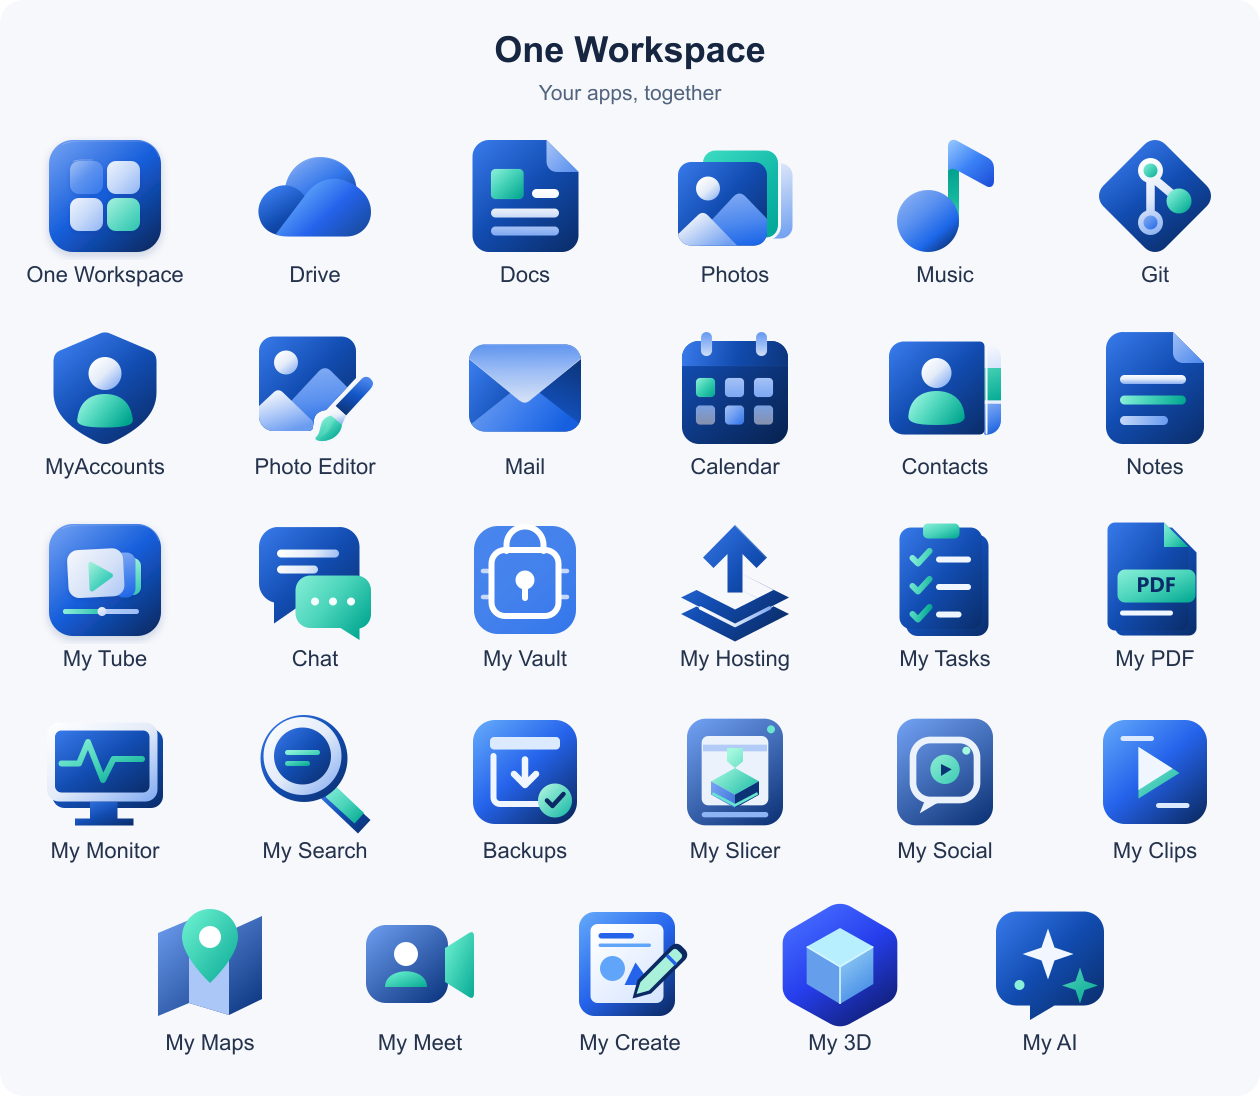
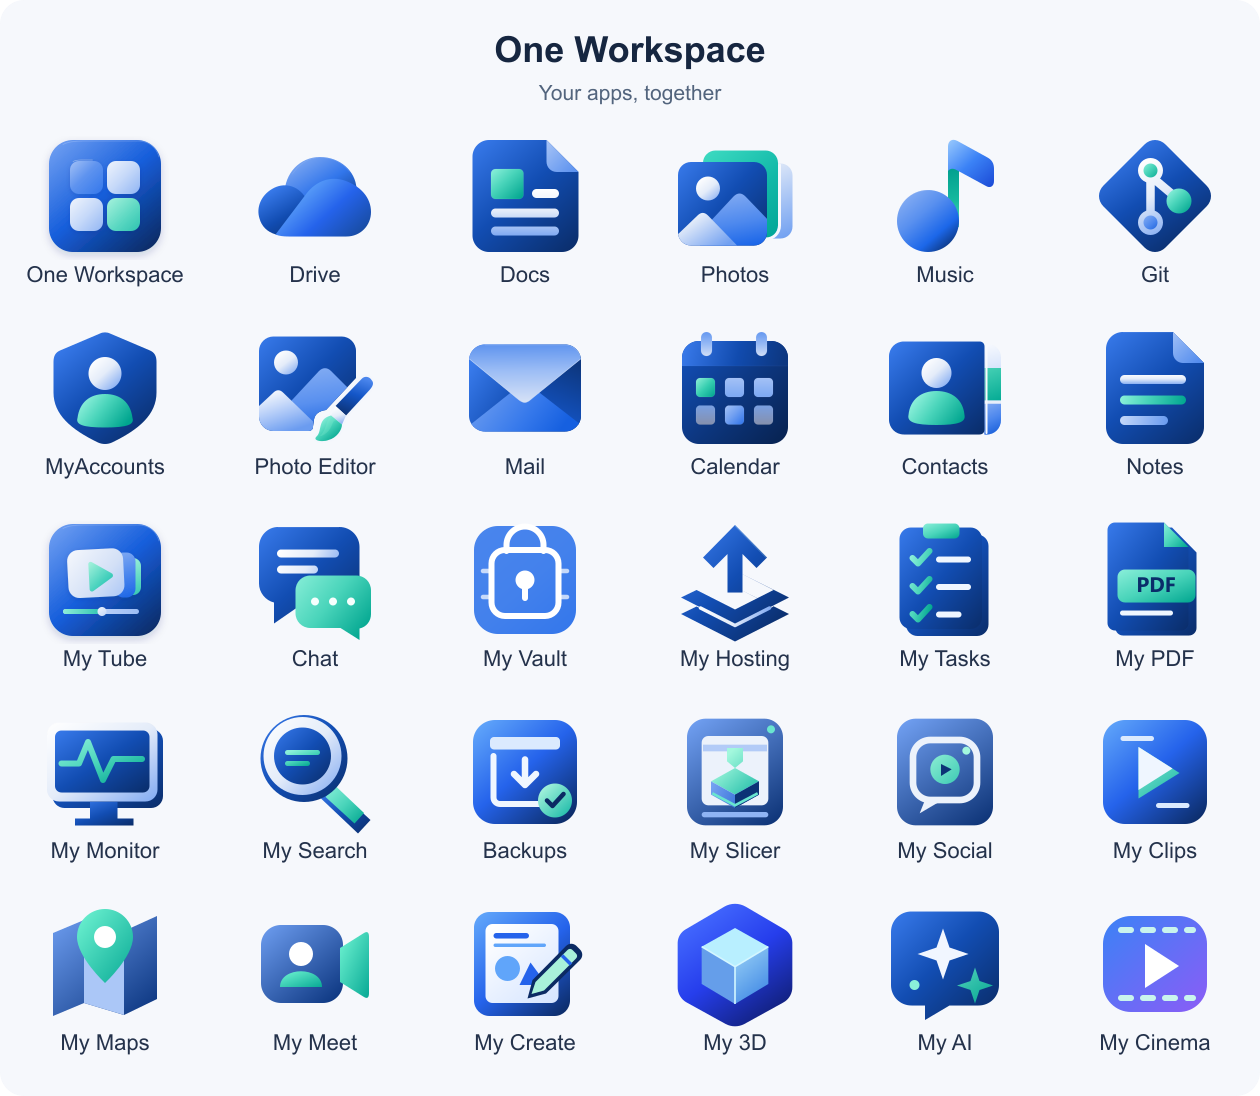
Integrate My Cinema with native sign-in, branding and verified updates [skip ci]

Changed region(s): [[0.031, 0.8066, 0.9595, 0.9617]]

diff --git a/docs/branding/index.html b/docs/branding/index.html
@@ -2,6 +2,6 @@
 <html lang="en"><head><meta charset="utf-8"><meta name="viewport" content="width=device-width,initial-scale=1"><title>One Workspace logos</title><link rel="icon" href="../../internal/branding/icons/one_workspace.svg"><style>
 *{box-sizing:border-box}body{margin:0;background:#f4f6fb;color:#17233b;font:16px system-ui,sans-serif}main{max-width:1180px;margin:40px auto;padding:0 26px}header{display:flex;gap:20px;align-items:center;margin-bottom:32px}header img{width:72px;height:72px}h1{font-size:32px;margin:0 0 8px;letter-spacing:-1px}p{margin:0;color:#65718a}.grid{display:grid;grid-template-columns:repeat(4,1fr);gap:20px}article{background:white;border:1px solid #dfe5ef;border-radius:18px;overflow:hidden}h2{font-size:16px;margin:20px}.samples{display:flex;align-items:center;justify-content:center;gap:18px;height:136px;background:repeating-conic-gradient(#edf0f6 0% 25%,white 0% 50%) 50%/20px 20px}.samples img{width:80px;height:80px}.dark{background:#11182a}.small{display:flex;align-items:center;gap:14px;padding:20px;color:#7b879b;font-size:12px}.small img{flex:none}@media(max-width:850px){.grid{grid-template-columns:repeat(2,1fr)}}@media(max-width:450px){.grid{grid-template-columns:1fr}}
 </style></head><body><main><header><img src="../../internal/branding/icons/one_workspace.svg" alt=""><div><h1>One Workspace</h1><p>The complete app collection · shared blue artwork</p></div></header><div class="grid" id="logos"></div></main><script>
-const apps=[["one_workspace","One Workspace"],["my_drive","Drive"],["my_office","Docs"],["my_photos","Photos"],["my_music","Music"],["my_git","Git"],["my_accounts","MyAccounts"],["photo_editor","Photo Editor"],["my_mail","Mail"],["my_calendar","Calendar"],["my_contacts","Contacts"],["my_notes","Notes"],["my_tube","My Tube"],["my_chat","Chat"],["my_vault","My Vault"],["my_hosting","My Hosting"],["my_tasks","My Tasks"],["my_pdf","My PDF"],["my_monitor","My Monitor"],["my_search","My Search"],["backups","Backups"],["my_slicer","My Slicer"],["my_social","My Social"],["my_clips","My Clips"],["my_maps","My Maps"],["my_meet","My Meet"],["my_create","My Create"],["my_3d","My 3D"],["my_ai","My AI"]];
+const apps=[["one_workspace","One Workspace"],["my_drive","Drive"],["my_office","Docs"],["my_photos","Photos"],["my_music","Music"],["my_git","Git"],["my_accounts","MyAccounts"],["photo_editor","Photo Editor"],["my_mail","Mail"],["my_calendar","Calendar"],["my_contacts","Contacts"],["my_notes","Notes"],["my_tube","My Tube"],["my_chat","Chat"],["my_vault","My Vault"],["my_hosting","My Hosting"],["my_tasks","My Tasks"],["my_pdf","My PDF"],["my_monitor","My Monitor"],["my_search","My Search"],["backups","Backups"],["my_slicer","My Slicer"],["my_social","My Social"],["my_clips","My Clips"],["my_maps","My Maps"],["my_meet","My Meet"],["my_create","My Create"],["my_3d","My 3D"],["my_ai","My AI"],["my_cinema","My Cinema"]];
 document.querySelector('#logos').innerHTML=apps.map(([file,name])=>`<article><h2>${name}</h2><div class="samples"><img src="../../internal/branding/icons/${file}.svg" alt="${name}"></div><div class="samples dark"><img src="../../internal/branding/icons/${file}.svg" alt=""></div><div class="small"><img src="${file}-32.png" width="16" height="16" alt=""><img src="${file}-32.png" width="24" height="24" alt=""><img src="${file}-32.png" width="32" height="32" alt=""><span>16 · 24 · 32</span></div></article>`).join('');
 </script></body></html>

diff --git a/internal/branding/branding.go b/internal/branding/branding.go
@@ -75,7 +75,7 @@ func Icon(app string) string {
 		"backups": "backups", "calendar": "my_calendar", "contacts": "my_contacts", "drive": "my_drive", "docs": "my_office", "office": "my_office",
 		"photos": "my_photos", "gitea": "my_git", "git": "my_git",
 		"music": "my_music", "studio": "photo_editor", "photo-editor": "photo_editor",
-		"myai": "my_ai", "my3d": "my_3d", "create": "my_create", "maps": "my_maps", "meet": "my_meet", "clips": "my_clips", "social": "my_social", "slicer": "my_slicer", "tasks": "my_tasks", "pdf": "my_pdf", "monitor": "my_monitor", "search": "my_search", "hosting": "my_hosting", "chat": "my_chat", "mail": "my_mail", "accounts": "my_accounts", "myaccounts": "my_accounts", "notes": "my_notes", "my-tube": "my_tube", "vault": "my_vault",
+		"cinema": "my_cinema", "myai": "my_ai", "my3d": "my_3d", "create": "my_create", "maps": "my_maps", "meet": "my_meet", "clips": "my_clips", "social": "my_social", "slicer": "my_slicer", "tasks": "my_tasks", "pdf": "my_pdf", "monitor": "my_monitor", "search": "my_search", "hosting": "my_hosting", "chat": "my_chat", "mail": "my_mail", "accounts": "my_accounts", "myaccounts": "my_accounts", "notes": "my_notes", "my-tube": "my_tube", "vault": "my_vault",
 	}[app]
 	if name == "" {
 		name = "one_workspace"

diff --git a/internal/suite/cinema_test.go b/internal/suite/cinema_test.go
@@ -1,0 +1,23 @@
+package suite
+
+import (
+	"github.com/oneworkspacestudio/one-workspace/internal/catalog"
+	"testing"
+)
+
+func TestCinemaNativeContract(t *testing.T) {
+	c := NewConfig(Request{Port: 29000, Mode: "local", Programs: "C:/Synthetic/Apps", Data: "C:/Synthetic/Private", Files: "C:/Synthetic/Files"}, catalog.Catalog{Apps: []catalog.App{{ID: "cinema", Kind: "process", Port: 9020, Route: "/cinema"}}})
+	a, ok := c.Catalog.Find("cinema")
+	if !ok || a.Port != 29030 || !foundationApp(a.ID) || appWorkingDir(c, a.ID) == c.Data {
+		t.Fatal("Cinema contract missing")
+	}
+	found := false
+	for _, s := range suiteSignIns {
+		if s.id == "cinema" {
+			found = s.probe == "/api/me" && s.route == "/cinema" && s.cookies[0] == "cinema_session"
+		}
+	}
+	if !found {
+		t.Fatal("native sign-in missing")
+	}
+}

diff --git a/internal/distribution/updates.go b/internal/distribution/updates.go
@@ -90,6 +90,7 @@ type updateGroup struct {
 
 var updateGroups = []updateGroup{
 	{"maps", "My Maps", "my-maps", []string{"maps"}},
+	{"cinema", "My Cinema", "my-cinema", []string{"cinema"}},
 	{"myai", "My AI", "my-ai", []string{"myai"}},
 	{"my3d", "My 3D", "my-3d", []string{"my3d"}},
 	{"create", "My Create", "my-create", []string{"create"}},
@@ -278,7 +279,7 @@ func updatePackageOwner(id string) string {
 	if strings.HasPrefix(id, "msvc-") {
 		return "workspace"
 	}
-	for _, app := range []string{"myai", "my3d", "create", "maps", "meet"} {
+	for _, app := range []string{"cinema", "myai", "my3d", "create", "maps", "meet"} {
 		if id == app || strings.HasPrefix(id, app+"-") {
 			return app
 		}

diff --git a/internal/suite/runtime_storage.go b/internal/suite/runtime_storage.go
@@ -10,7 +10,7 @@ func runtimeTemp(c Config, app string) string { return filepath.Join(c.Data, "ru
 
 func appWorkingDir(c Config, app string) string {
 	switch app {
-	case "myai", "my3d", "create", "maps", "meet", "clips", "social", "tasks", "pdf", "monitor", "search", "accounts", "drive", "photos", "gitea", "music", "mail", "calendar", "contacts", "notes", "my-tube", "chat":
+	case "cinema", "myai", "my3d", "create", "maps", "meet", "clips", "social", "tasks", "pdf", "monitor", "search", "accounts", "drive", "photos", "gitea", "music", "mail", "calendar", "contacts", "notes", "my-tube", "chat":
 		return filepath.Join(c.Data, app)
 	case "vault":
 		return filepath.Join(c.Data, "my-vault")

diff --git a/internal/suite/navigation.go b/internal/suite/navigation.go
@@ -98,7 +98,7 @@ func clearAppCookies(w http.ResponseWriter, r *http.Request, secure bool) {
 		"access_token_cookie": {"/", "/music/"}, "csrf_access_token": {"/", "/music/"}, "swingmusic_oidc": {"/", "/music/"},
 		"workspace_gitea": {"/", "/git", "/git/"},
 	}
-	for _, id := range []string{"myai", "my3d", "create", "maps", "meet", "clips", "social", "slicer", "tasks", "pdf", "monitor", "search"} {
+	for _, id := range []string{"cinema", "myai", "my3d", "create", "maps", "meet", "clips", "social", "slicer", "tasks", "pdf", "monitor", "search"} {
 		names[id+"_session"] = []string{"/", "/" + id + "/"}
 		names[id+"_login"] = []string{"/", "/" + id + "/"}
 	}

diff --git a/internal/catalog/cinema_test.go b/internal/catalog/cinema_test.go
@@ -1,0 +1,15 @@
+package catalog
+
+import "testing"
+
+func TestCinemaRuntimeFollowsSelection(t *testing.T) {
+	c := Catalog{Apps: []App{{ID: "cinema", Package: "cinema"}}, Packages: map[string]Package{"cinema": {File: "MyCinema.exe"}, "cinema-runtime": {File: "runtime/mycinema/jellyfin.zip"}, "cinema-contract": {File: "docs/MyCinema/compatibility.json"}}}
+	for _, selected := range []bool{false, true} {
+		keep := InstallPackageIDs(c, map[string]bool{"cinema": selected})
+		for _, id := range []string{"cinema", "cinema-runtime", "cinema-contract"} {
+			if keep[id] != selected {
+				t.Fatal(id, selected)
+			}
+		}
+	}
+}

diff --git a/internal/suite/four_apps.go b/internal/suite/four_apps.go
@@ -16,7 +16,7 @@ import (
 )
 
 func foundationApp(id string) bool {
-	return id == "myai" || id == "my3d" || id == "create" || id == "maps" || id == "meet" || id == "clips" || id == "social" || id == "slicer" || id == "tasks" || id == "pdf" || id == "monitor" || id == "search"
+	return id == "cinema" || id == "myai" || id == "my3d" || id == "create" || id == "maps" || id == "meet" || id == "clips" || id == "social" || id == "slicer" || id == "tasks" || id == "pdf" || id == "monitor" || id == "search"
 }
 func monitorCapability(secret string) string {
 	if secret == "" {

diff --git a/internal/suite/seamless.go b/internal/suite/seamless.go
@@ -21,6 +21,7 @@ type appSignIn struct {
 }
 
 var suiteSignIns = []appSignIn{
+	{"cinema", "My Cinema", "/cinema", "/api/me", "/cinema/auth/login", "/cinema/auth/logout", []string{"cinema_session"}},
 	{"myai", "My AI", "/myai", "/api/me", "/myai/auth/login", "/myai/auth/logout", []string{"myai_session"}},
 	{"my3d", "My 3D", "/my3d", "/api/me", "/my3d/auth/login", "/my3d/auth/logout", []string{"my3d_session"}},
 	{"maps", "My Maps", "/maps", "/api/me", "/maps/auth/login", "/maps/auth/logout", []string{"maps_session"}},

diff --git a/internal/catalog/selection.go b/internal/catalog/selection.go
@@ -93,7 +93,7 @@ func InstallPackageIDs(c Catalog, selected map[string]bool) map[string]bool {
 		}
 	}
 	for id, p := range c.Packages {
-		if strings.HasPrefix(filepath.ToSlash(p.File), "licenses/") || (selected["vault"] && strings.HasPrefix(id, "vault-")) {
+		if strings.HasPrefix(filepath.ToSlash(p.File), "licenses/") || (selected["vault"] && strings.HasPrefix(id, "vault-")) || (selected["cinema"] && strings.HasPrefix(id, "cinema-")) {
 			keep[id] = true
 		}
 	}

diff --git a/internal/suite/config.go b/internal/suite/config.go
@@ -169,6 +169,8 @@ func NewConfig(r Request, c catalog.Catalog) Config {
 			app.Port = r.Port + 16
 		case "maps":
 			app.Port = r.Port + 25
+		case "cinema":
+			app.Port = r.Port + 30
 		case "myai":
 			app.Port = r.Port + 29
 		case "my3d":

diff --git a/agents/history/2026-10-24-my-cinema-compacted.md b/agents/history/2026-10-24-my-cinema-compacted.md
@@ -1,0 +1,49 @@
+# My Cinema integration and release84
+
+User requests implementation of the supplied My Cinema brief, source push,
+release and installation on both PCs. Secondary is the Windows PC in the open
+Remote Desktop tab (workspace-2 origin). No subagents or Actions. Work isolated
+from unrelated dirty main checkouts; app source is its own my-cinema repository.
+Read repository continuity and actual native OIDC/Drive contracts first.
+
+Adds cinema at base+30, native apphost owner/OIDC/session/logout integration,
+dedicated process working directory, update package ownership/selection, original
+shared branding and app-directory entry. Original AUI/React frontend uses a Go
+broker and separate restricted Jellyfin users for adult/child viewing profiles.
+The single MyCinema.exe carries the exact pinned Jellyfin12.3/FFmpeg8.1.3 archive;
+no unknown executable helper package is needed by older installers. Shared media
+folders are indexed in place; no user library/profile is selected automatically.
+DPAPI secrets, owner-only first household, PINs and denied child unrated content.
+
+Concurrent upstream published83 while this work was active. Fast-forwarded to
+425a055 and reconciled Cinema; never overwrite83 or discard its optional-document
+compatibility/Social6 fixes. Release84 uses SHA-verified public83 as baseline,
+retains all27 previous app contracts/payloads, changes only manager/release notice
+and adds Cinema packages. All166 payload digests and sizes verified. Selected
+Workspace/Cinema updates must preserve independent app pins and identity.
+
+Final portable app SHA256
[1 lines of base64/hex data omitted]
+passed10 fresh NTFS checks including native/HLS browser playback, next episode,
+child direct URLs, resume, profile cross-tab clearing, CSRF and layouts. Final
+full84 installer passed7 fresh protected Accounts/Drive/Cinema checks: real owner
+code/PKCE, runtime extraction, actual bytes, Quantum download of the same file,
+Apps/mobile, independent-session PIN and different-subject denial. Test children
+stopped. No owner data used as fixture. Existing app-health context must be
+sanitized/preserved for this reference host's pinned native FFmpeg startup.
+
+App tests/vet pass, Go scanner0 reachable/imported vulnerabilities, npm production
+audit0. Catalog/distribution/Cinema native integration tests/vet pass. Full suite
+with NTFS GOTMPDIR has the same5 pre-existing Mail fixture failures; other packages
+pass. Do not claim clean-host, reboot or arbitrary-device/hardware acceptance.
+Advanced Drive import jobs, PWA/offline/native-TV and standalone graphical restore
+remain explicit in the app feature matrix. Managed complete backup/restore uses
+the existing stopped/checkpointed Workspace transaction.
+
+At source release checkpoint: app source/tag1 pushed, package publishing underway;
+suite84 public release/promotion and both actual backed-up installs still pending.
+Main actual inventory advanced to83 during concurrent updater work. Remote repair
+completed successfully with all apps running. Verify current operation lock and
+catalog immediately before installation; preserve all unselected apps, locations,
+accounts, OIDC clients/recovery credentials and newest verified rollback. Publish
+and verify immutable assets, promote public index, then install/verify both PCs.
